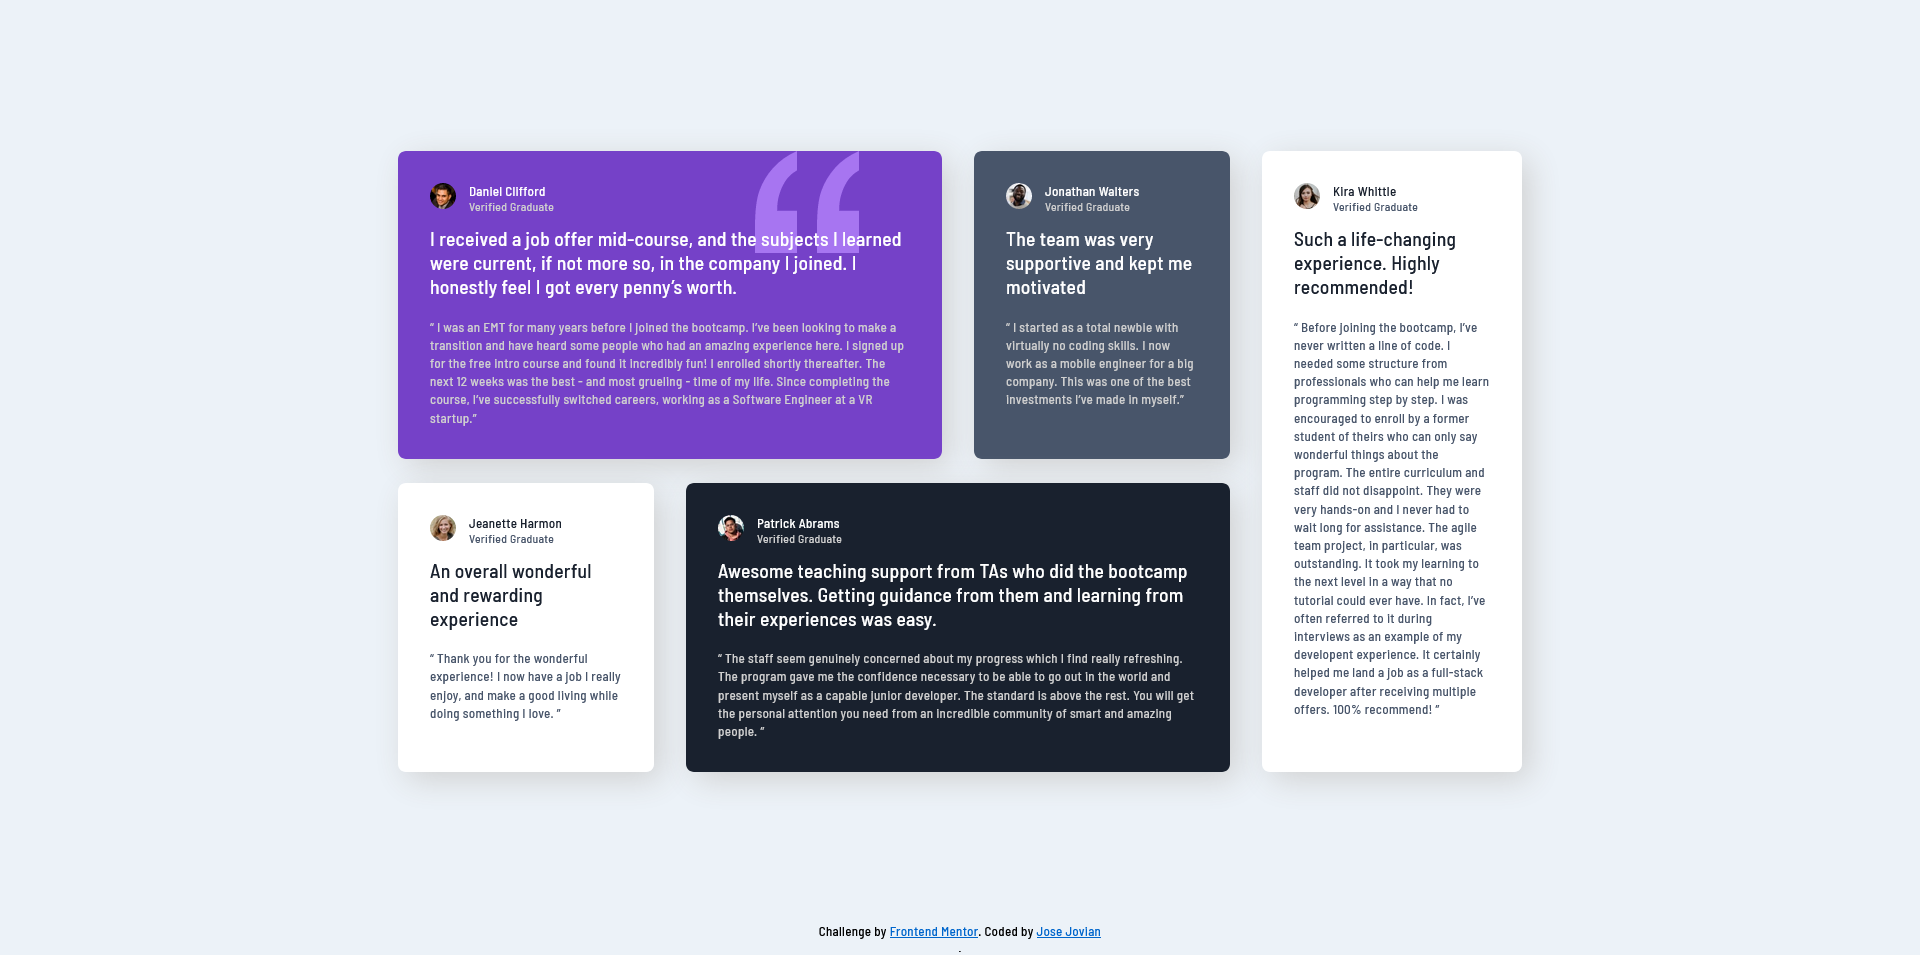
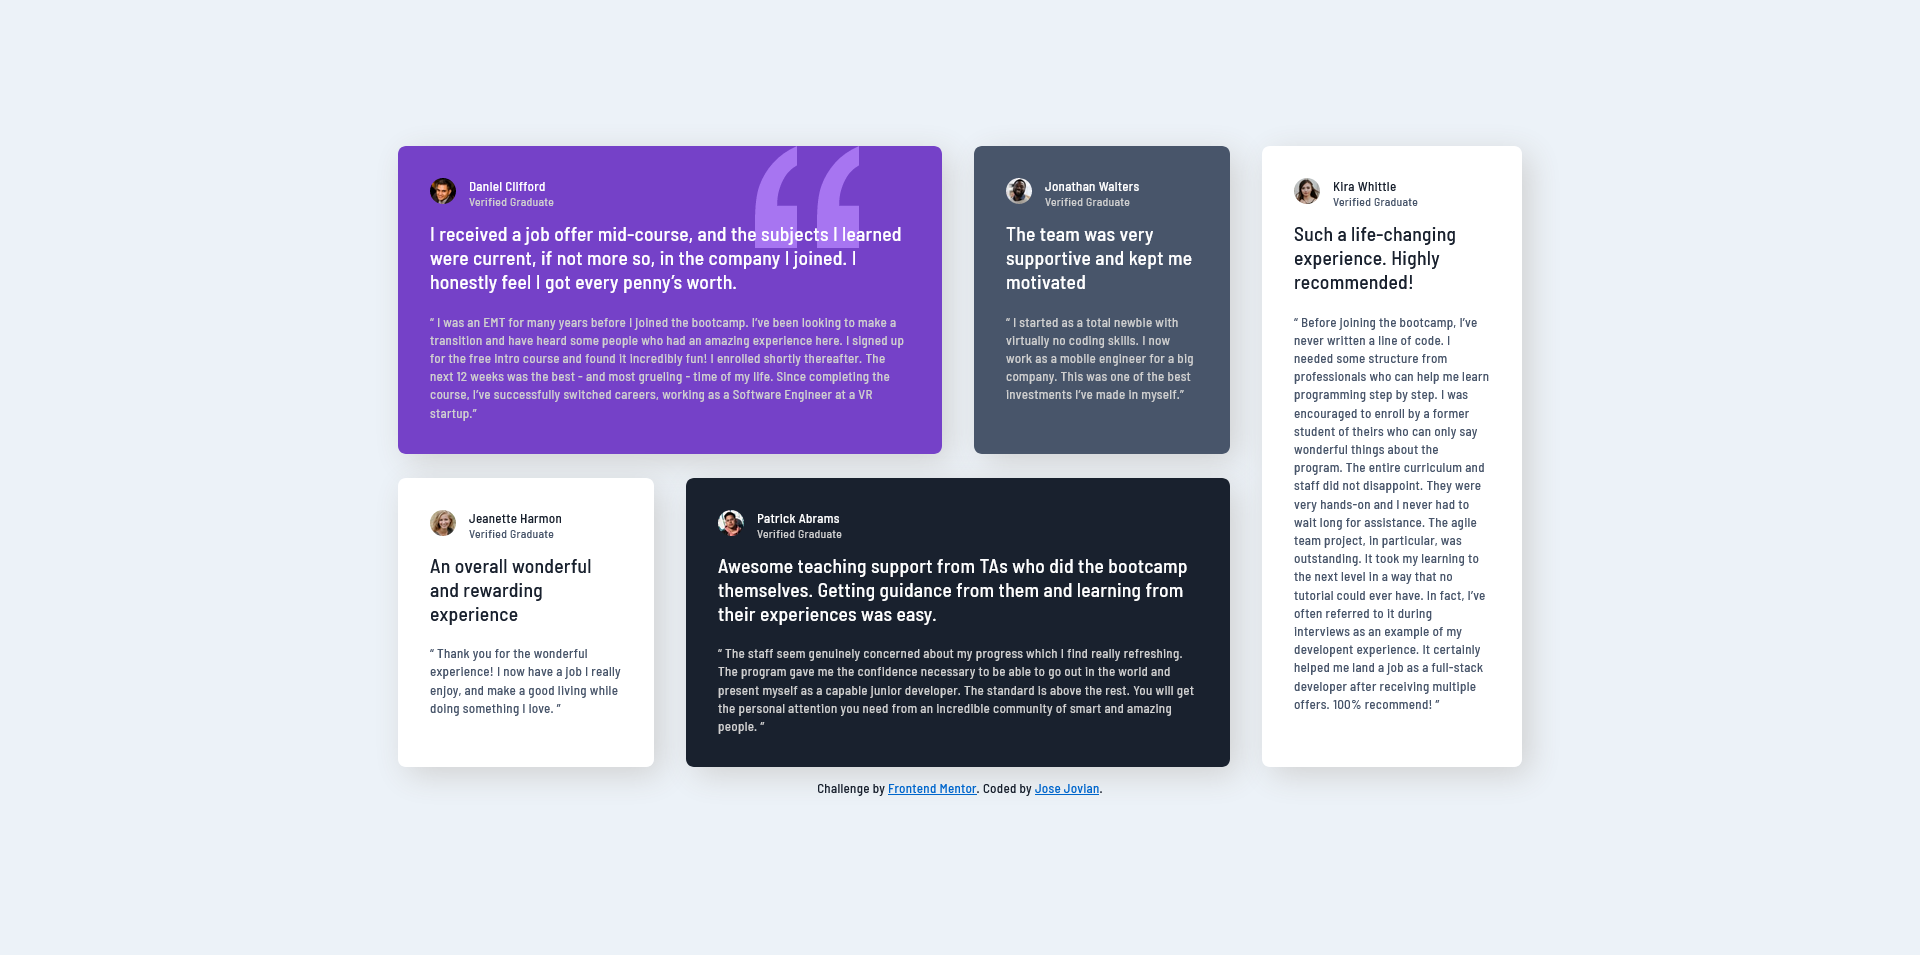
chore(testimonials-grid-section-main): attribution

diff --git a/testimonials-grid-section-main/index.html b/testimonials-grid-section-main/index.html
@@ -131,9 +131,8 @@
         Challenge by
         <a href="https://www.frontendmentor.io?ref=challenge" target="_blank"
           >Frontend Mentor</a
-        >. Coded by <a href="https://github.com/josejovian">Jose Jovian</a>
+        >. Coded by <a href="https://github.com/josejovian">Jose Jovian</a>.
       </p>
-      .
     </footer>
   </body>
 </html>

diff --git a/testimonials-grid-section-main/style.sass b/testimonials-grid-section-main/style.sass
@@ -125,7 +125,9 @@ p
   .testimony__description
     line-height: 1.4rem
 
-footer.attribution
+.attribution
+  color: var(--very-dark-blackish-blue)
+  padding: 1rem 0
   text-align: center
 
 @media screen and (max-width: 1176px) and (min-width: 800px)

diff --git a/testimonials-grid-section-main/style.css b/testimonials-grid-section-main/style.css
@@ -139,7 +139,9 @@ html {
   line-height: 1.4rem;
 }
 
-footer.attribution {
+.attribution {
+  color: var(--very-dark-blackish-blue);
+  padding: 1rem 0;
   text-align: center;
 }
 
